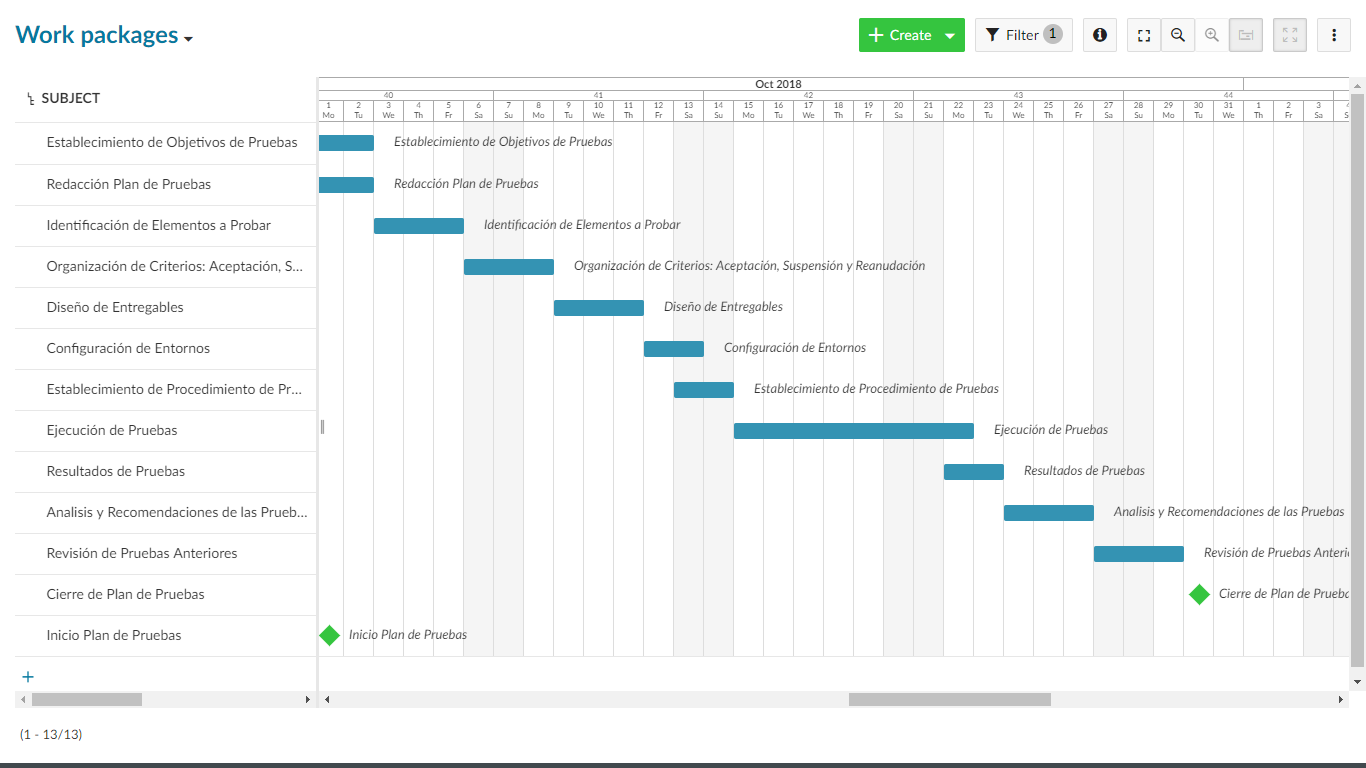
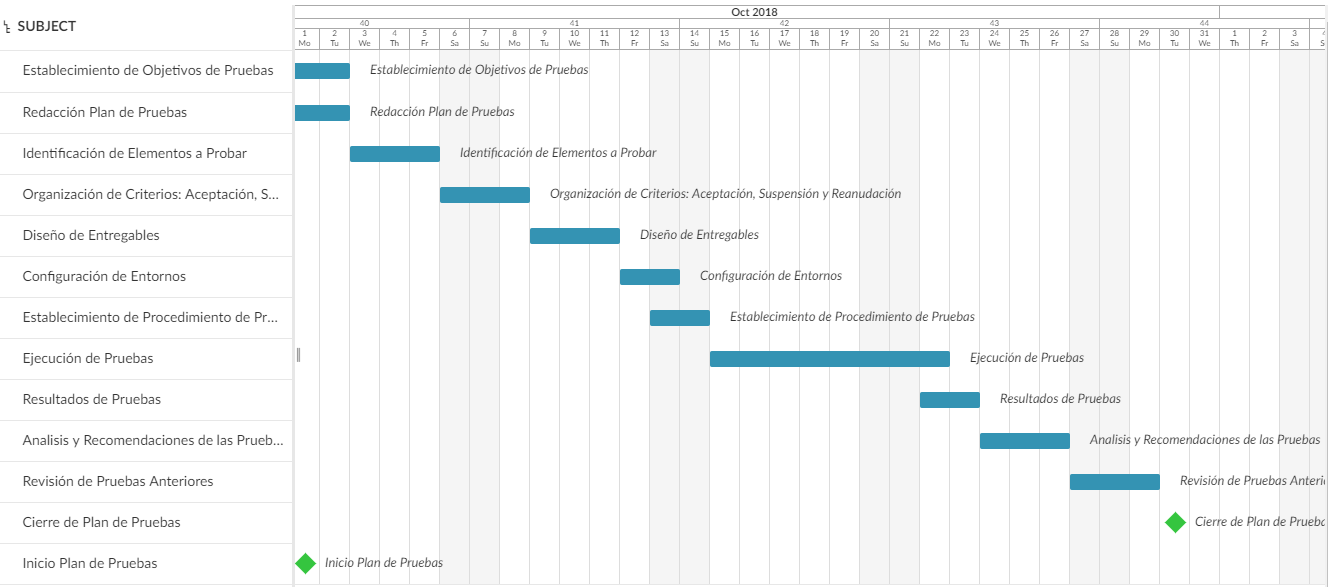
Doc de Pruebas: Cronograma

diff --git a/plan_pruebas.md b/plan_pruebas.md
@@ -142,8 +142,7 @@ Capacitación de los empleados en las herramientas pertinentes en la ejecución 
 ![Matriz RACI](https://github.com/danielvargas97/AutoUD/blob/master/matrizRACI.png)
 
 ### Cronograma
-![Cronograma Pruebas]((https://github.com/danielvargas97/AutoUD/blob/master/Cronograma-Pruebas.png)
-//Referenciar cronograma de tareas en esta sección.
+![Cronograma Pruebas](https://github.com/danielvargas97/AutoUD/blob/master/Cronograma-Pruebas.png)
 
 ### Premisas
 - Para la sección de pruebas de caja blanca usaremos Selenium, al igual para las pruebas de optimización y rendimiento.
